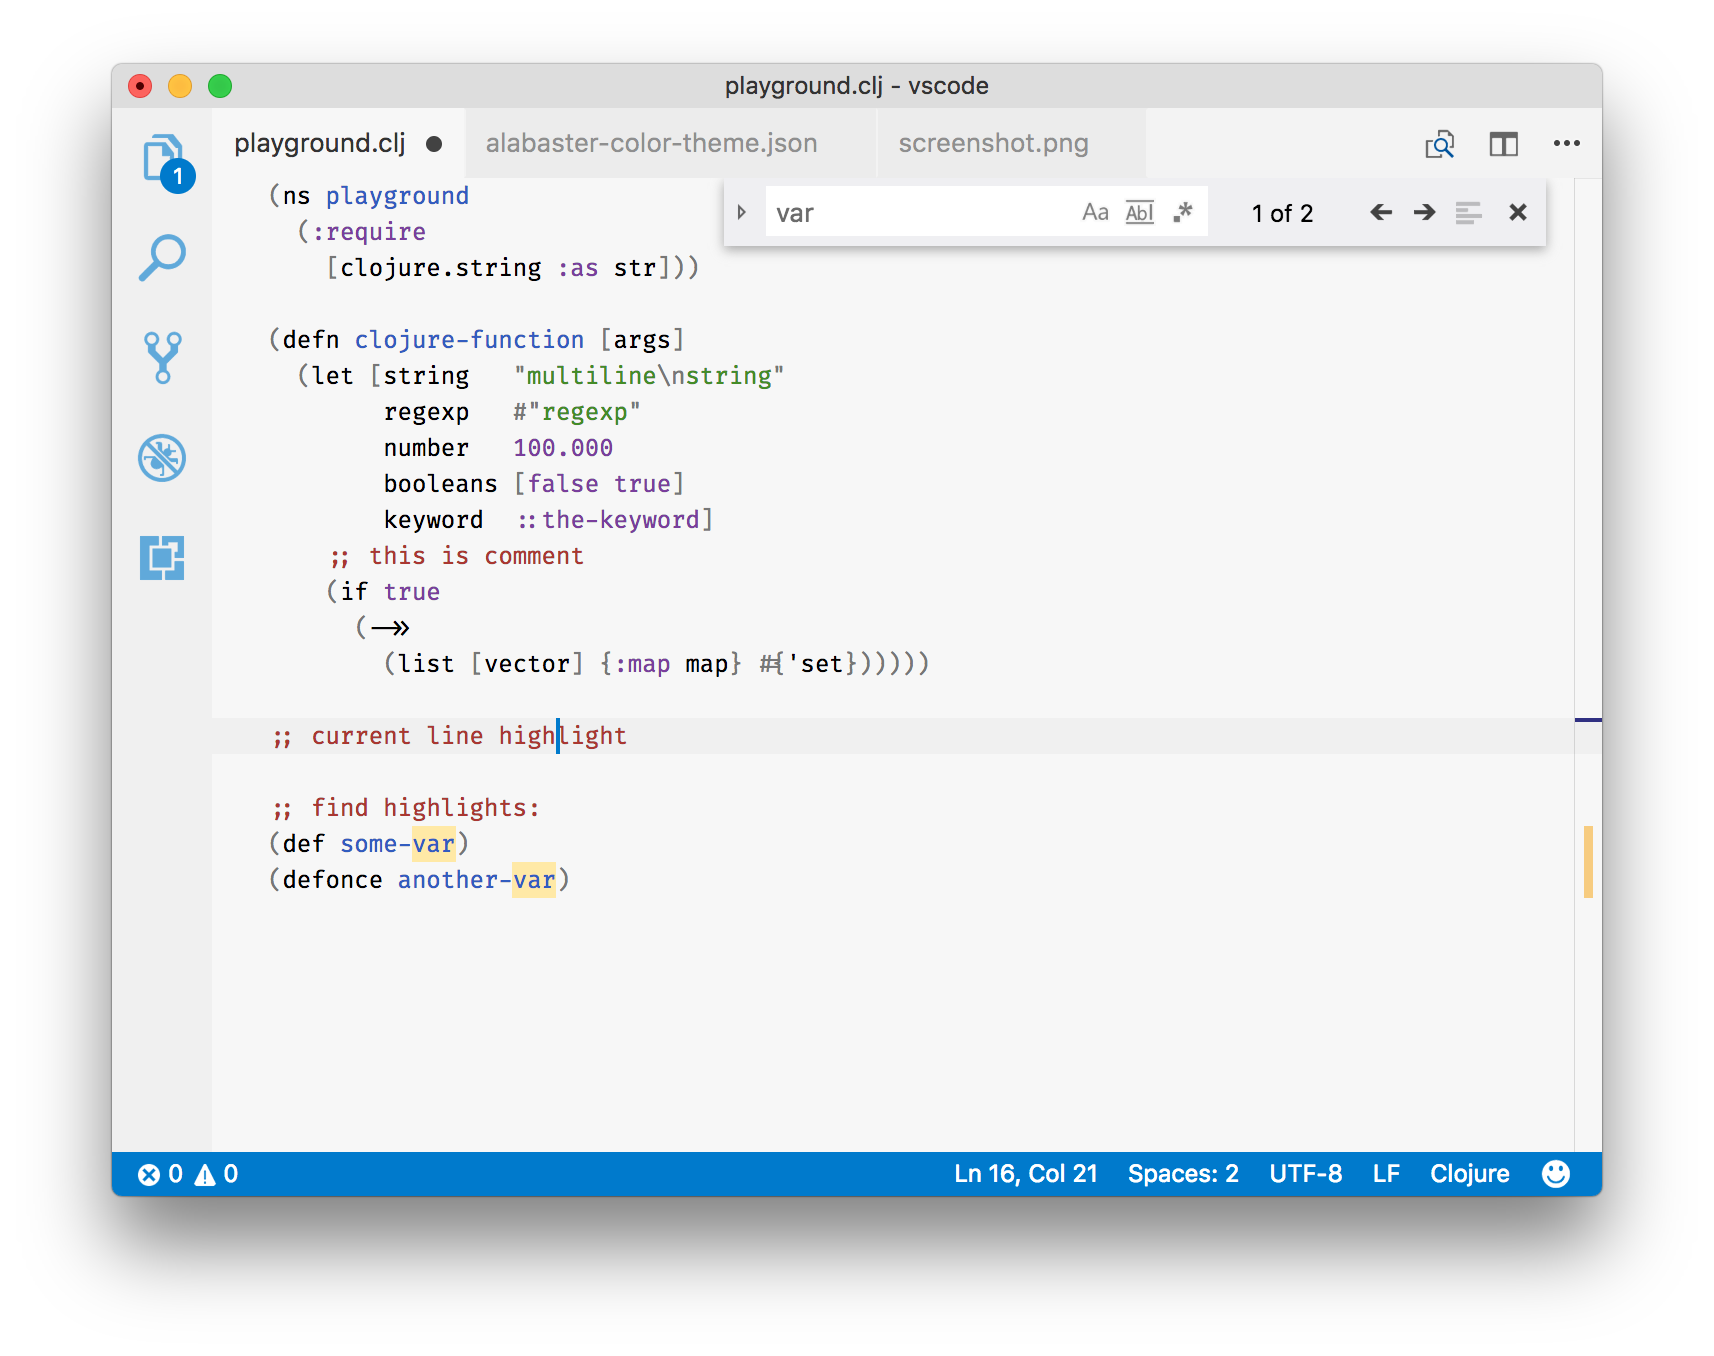
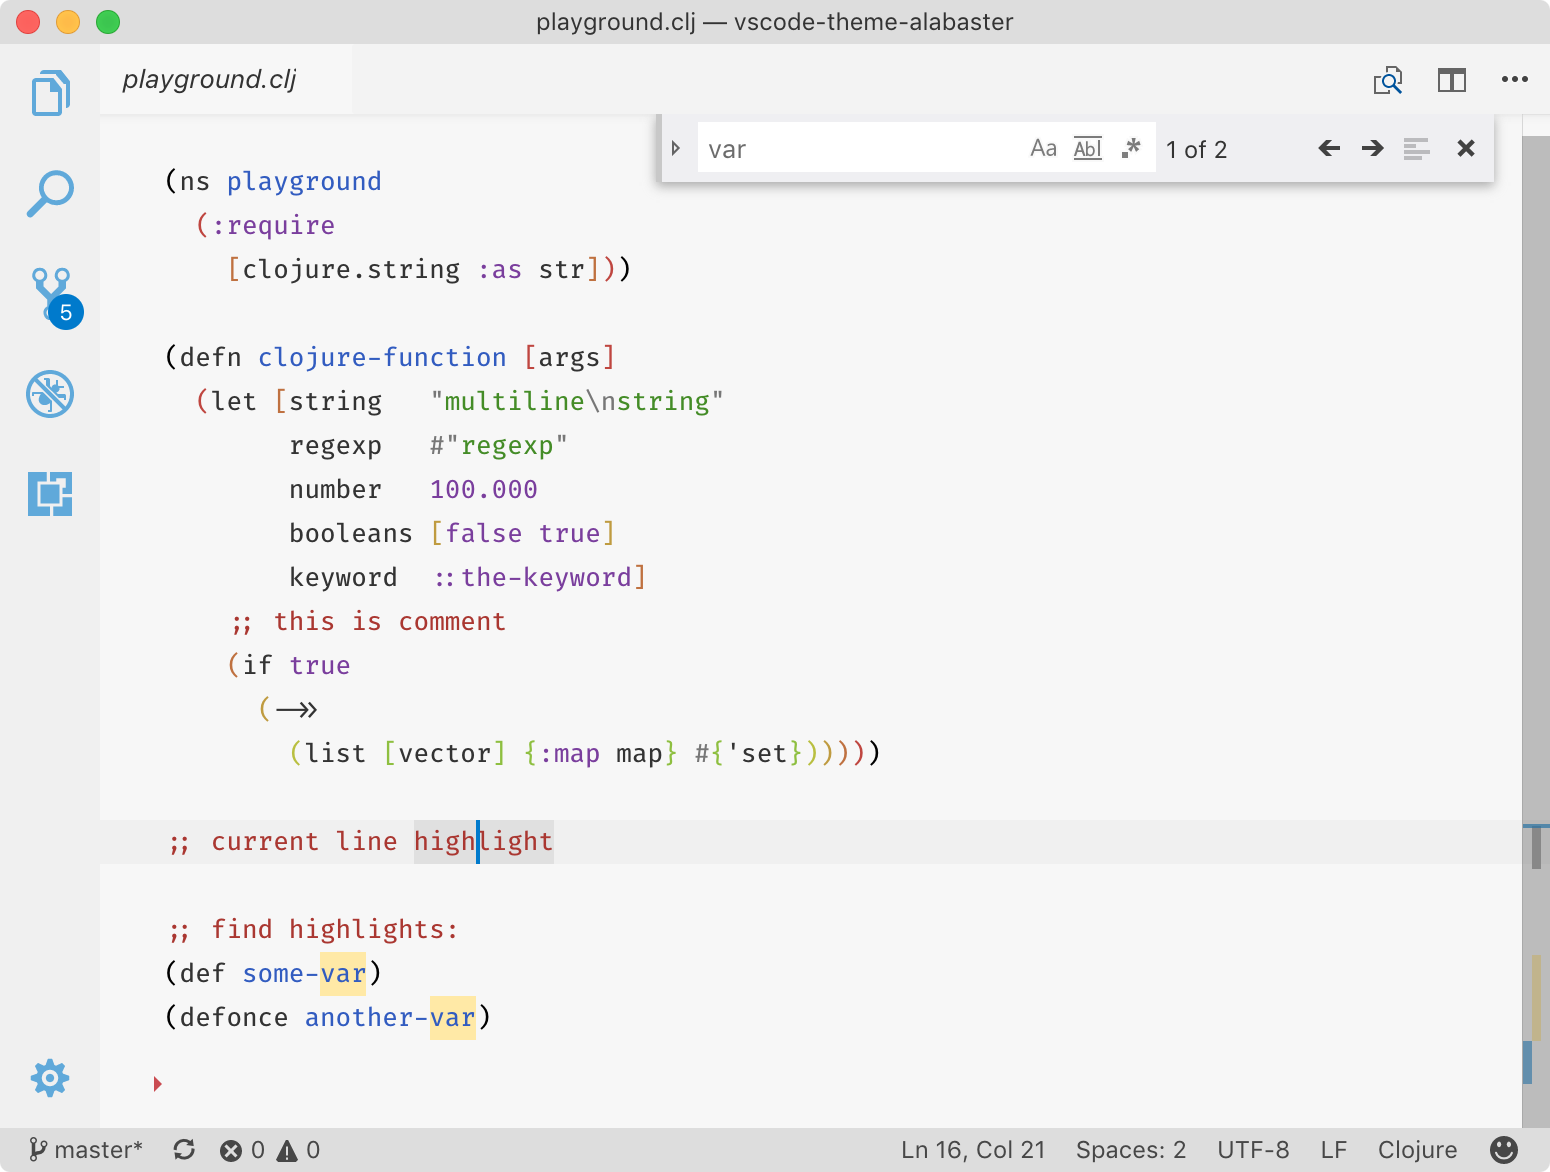
0.2.3 Grey status bar (closes #8)

diff --git a/README.md b/README.md
@@ -33,7 +33,7 @@ Additionally:
 2. Search for `alabaster`
 3. Install
 4. Restart Visual Studio Code (or click `Reload window`)
-5. Go to `Preferences → Color Theme` and choose `Alabaster`
+5. Go to `Preferences → Color Theme` and choose `Alabaster`
 
 ## License
 

diff --git a/CHANGELOG.md b/CHANGELOG.md
@@ -1,3 +1,7 @@
+# 0.2.3
+
+- Grey status bar (#8)
+
 # 0.2.2
 
 - Terminal colors (#6)
